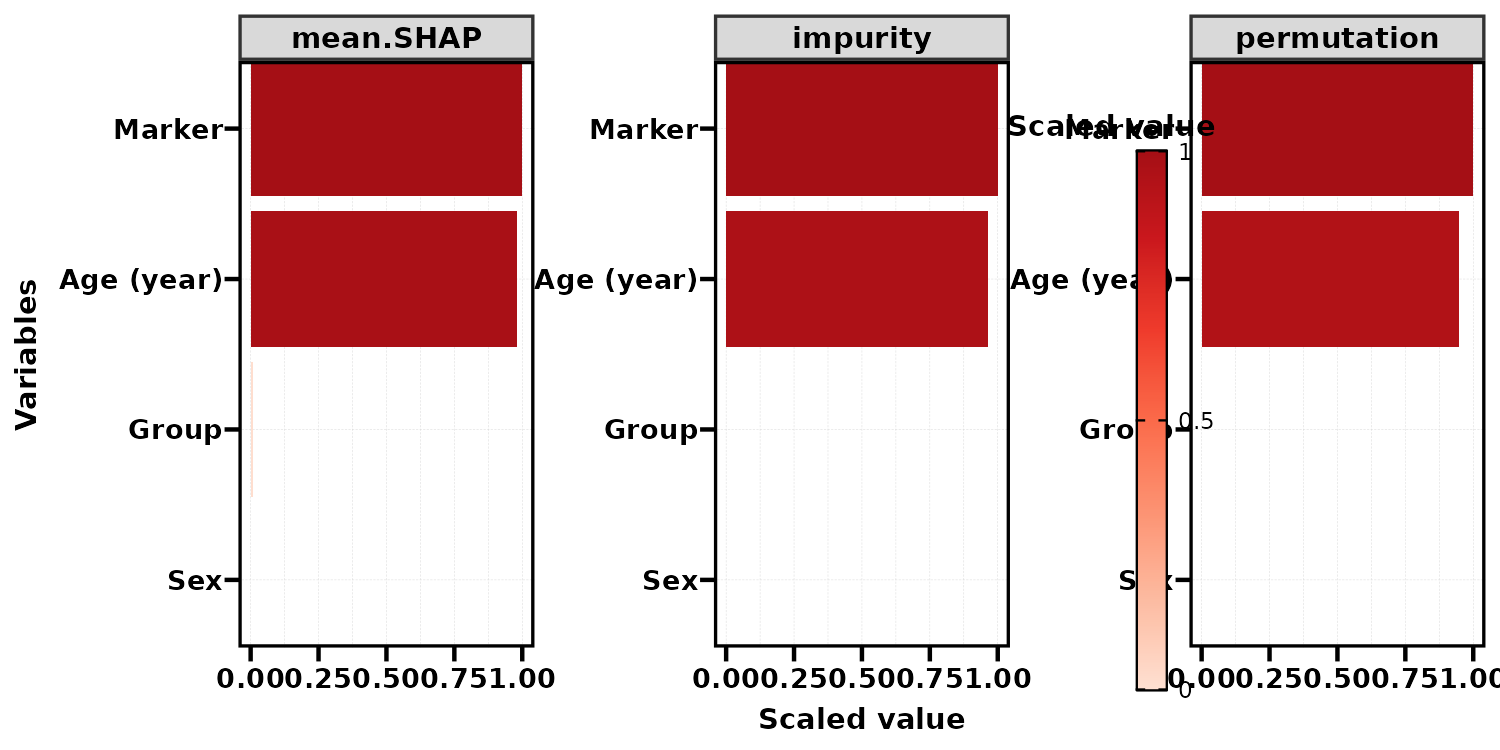
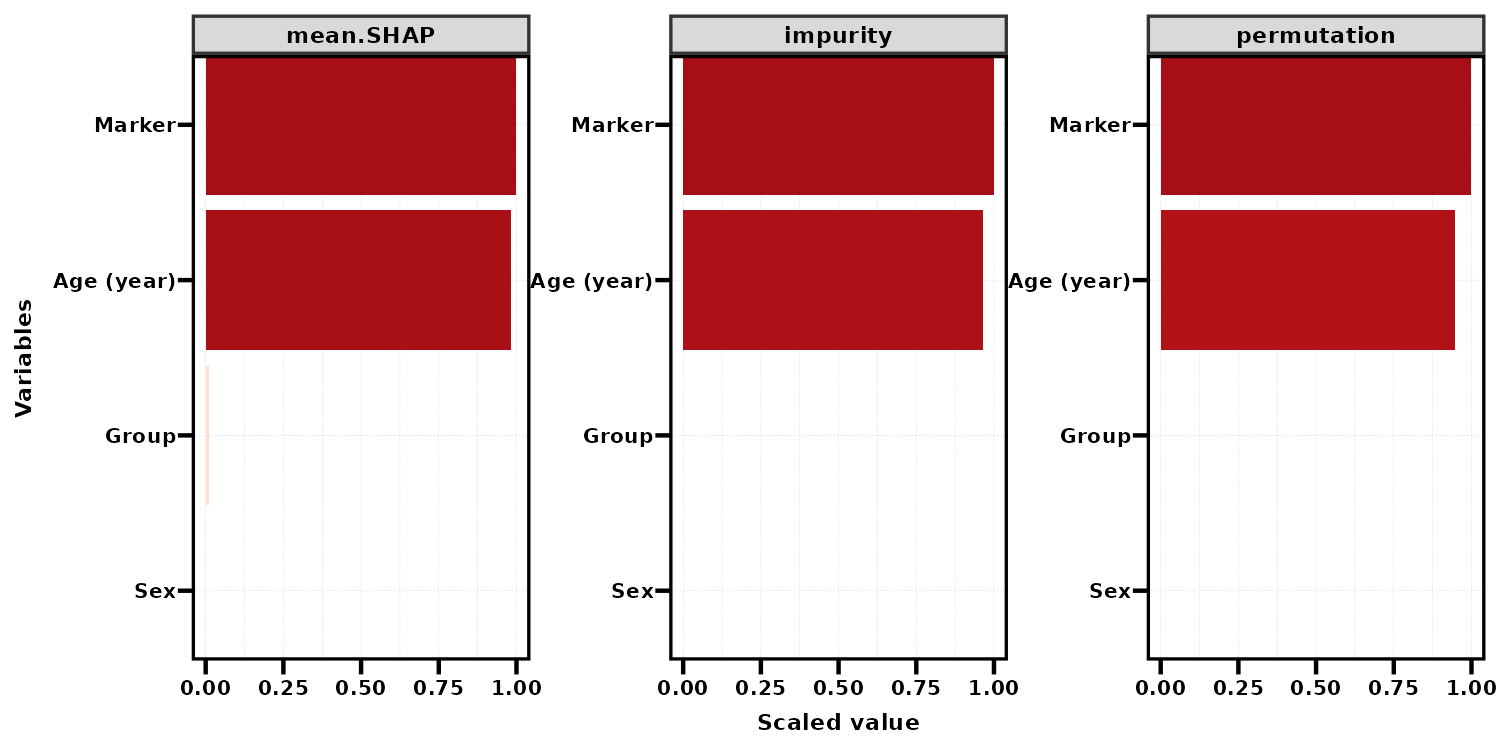
Improve readability of the current importance comparison figure

diff --git a/docs/mlr/imp-guide.html b/docs/mlr/imp-guide.html
@@ -1166,10 +1166,14 @@ pre > code.sourceCode > span > a:first-child::before { text-decoration: underlin
 <span id="cb2-13"><a href="#cb2-13" aria-hidden="true" tabindex="-1"></a>cvars <span class="ot">&lt;-</span> <span class="fu">c</span>(<span class="st">"Age"</span>, <span class="st">"Sex"</span>, <span class="st">"Marker"</span>, <span class="st">"Group"</span>)</span>
 <span id="cb2-14"><a href="#cb2-14" aria-hidden="true" tabindex="-1"></a></span>
 <span id="cb2-15"><a href="#cb2-15" aria-hidden="true" tabindex="-1"></a>imp_current <span class="ot">&lt;-</span> <span class="fu">get_imp</span>(dc, <span class="at">vars =</span> cvars, <span class="at">surv =</span> <span class="st">"Outcome"</span>, <span class="at">model =</span> <span class="st">"ranger"</span>)</span>
-<span id="cb2-16"><a href="#cb2-16" aria-hidden="true" tabindex="-1"></a><span class="fu">plt_imp_bar</span>(imp_current, <span class="at">display =</span> <span class="st">"b"</span>)</span></code></pre></div><button title="复制到剪贴板" class="code-copy-button"><i class="bi"></i></button></div>
+<span id="cb2-16"><a href="#cb2-16" aria-hidden="true" tabindex="-1"></a>imp_plot <span class="ot">&lt;-</span> <span class="fu">plt_imp_bar</span>(imp_current, <span class="at">display =</span> <span class="st">"b"</span>) <span class="sc">+</span></span>
+<span id="cb2-17"><a href="#cb2-17" aria-hidden="true" tabindex="-1"></a>  <span class="fu">theme</span>(<span class="at">axis.text =</span> <span class="fu">element_text</span>(<span class="at">size =</span> <span class="dv">10</span>),</span>
+<span id="cb2-18"><a href="#cb2-18" aria-hidden="true" tabindex="-1"></a>    <span class="at">axis.title =</span> <span class="fu">element_text</span>(<span class="at">size =</span> <span class="dv">11</span>), <span class="at">strip.text =</span> <span class="fu">element_text</span>(<span class="at">size =</span> <span class="dv">11</span>),</span>
+<span id="cb2-19"><a href="#cb2-19" aria-hidden="true" tabindex="-1"></a>    <span class="at">legend.position =</span> <span class="st">"none"</span>)</span>
+<span id="cb2-20"><a href="#cb2-20" aria-hidden="true" tabindex="-1"></a>imp_plot</span></code></pre></div><button title="复制到剪贴板" class="code-copy-button"><i class="bi"></i></button></div>
 <div class="quarto-figure quarto-figure-center">
 <figure class="figure">
-<p><a href="images/imp-guide/current-300.png" class="lightbox" data-gallery="quarto-lightbox-gallery-1" title="当前 300 棵 ranger 森林的三类变量重要性。"><img src="images/imp-guide/current-300.png" class="img-fluid figure-img" alt="合成二分类队列的当前 ranger 重要性，分别显示平均绝对 SHAP、impurity 和 permutation，使用当前 300 棵树设置。" loading="lazy" decoding="async" width="1500" height="750" srcset="../assets/figure-previews/144daf3bf8b1117c9fe0b0556cb321ef.webp"></a></p>
+<p><a href="images/imp-guide/current-300.png" class="lightbox" data-gallery="quarto-lightbox-gallery-1" title="当前 300 棵 ranger 森林的三类变量重要性。"><img src="images/imp-guide/current-300.png" class="img-fluid figure-img" alt="合成二分类队列的当前 ranger 重要性，分别显示平均绝对 SHAP、impurity 和 permutation，使用当前 300 棵树设置。" loading="lazy" decoding="async" width="1500" height="750" srcset="../assets/figure-previews/d8d58091f824f494452c283f82acfcad.webp"></a></p>
 <figcaption>当前 300 棵 ranger 森林的三类变量重要性。</figcaption>
 </figure>
 </div>

diff --git a/docs/index.html b/docs/index.html
@@ -1448,7 +1448,7 @@ LabR    Suggests -&gt; UtilsR</code></pre>
 <td style="text-align: left;">模型解释</td>
 <td style="text-align: left;">2026-09-30</td>
 </tr>
-<tr class="even" data-keywords="c data.frame dev.off factor get_imp ggsave gsub head ifelse library list pdf plogis plt_imp_bar plt_imp_bar_per plt_imp_bump plt_imp_circ plt_imp_flo plt_imp_flo2 plt_imp_network plt_imp_radar plt_imp_two rnorm runif sample set.seed setNames theme unique">
+<tr class="even" data-keywords="c data.frame dev.off element_text factor get_imp ggsave gsub head ifelse library list pdf plogis plt_imp_bar plt_imp_bar_per plt_imp_bump plt_imp_circ plt_imp_flo plt_imp_flo2 plt_imp_network plt_imp_radar plt_imp_two rnorm runif sample set.seed setNames theme unique">
 <td style="text-align: left;">MLR</td>
 <td style="text-align: left;"><a href="./mlr/imp-guide.html">特征重要性：get_imp 与 9 个绘图函数，25 张参数对照图</a></td>
 <td style="text-align: left;">模型解释</td>
